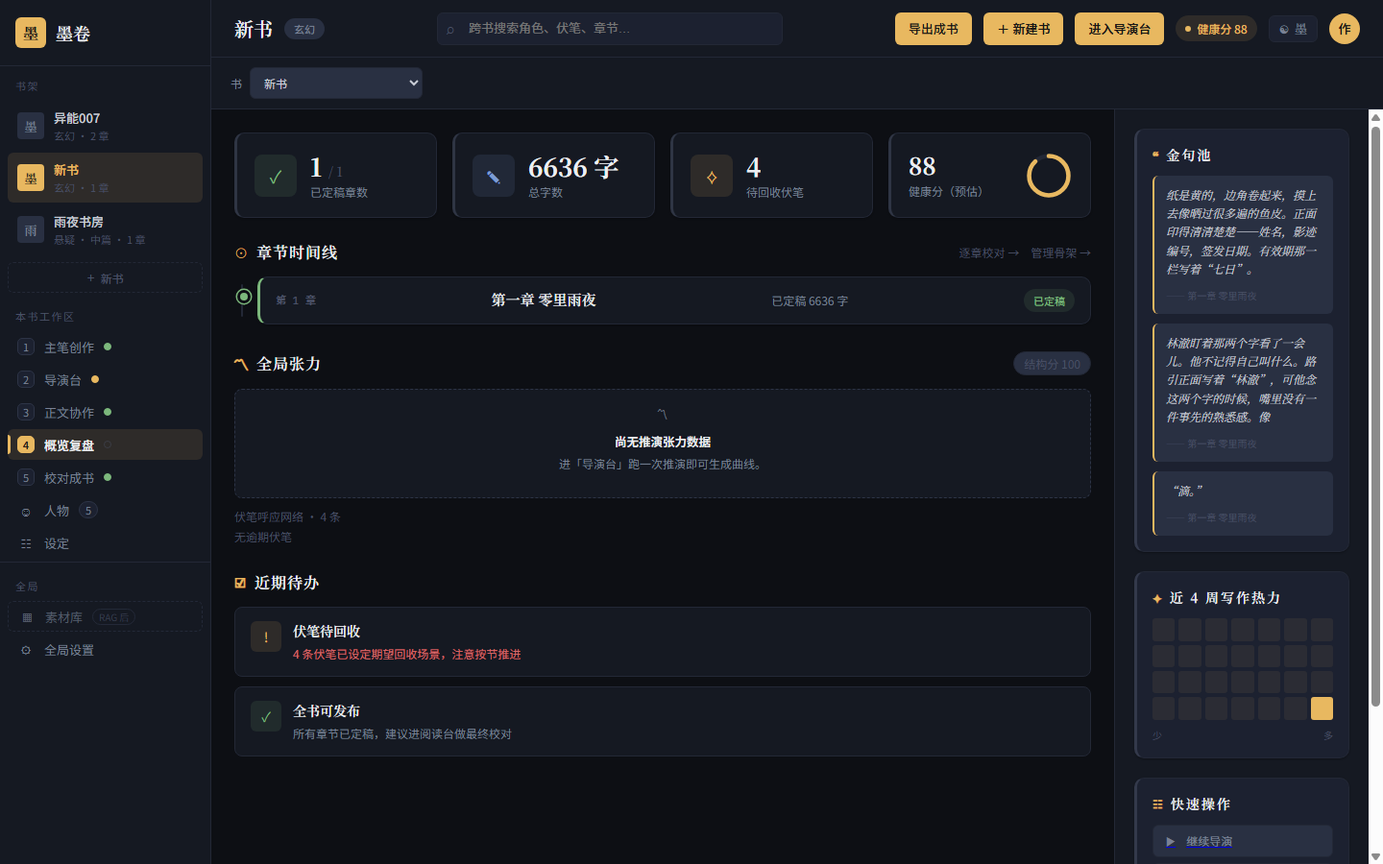
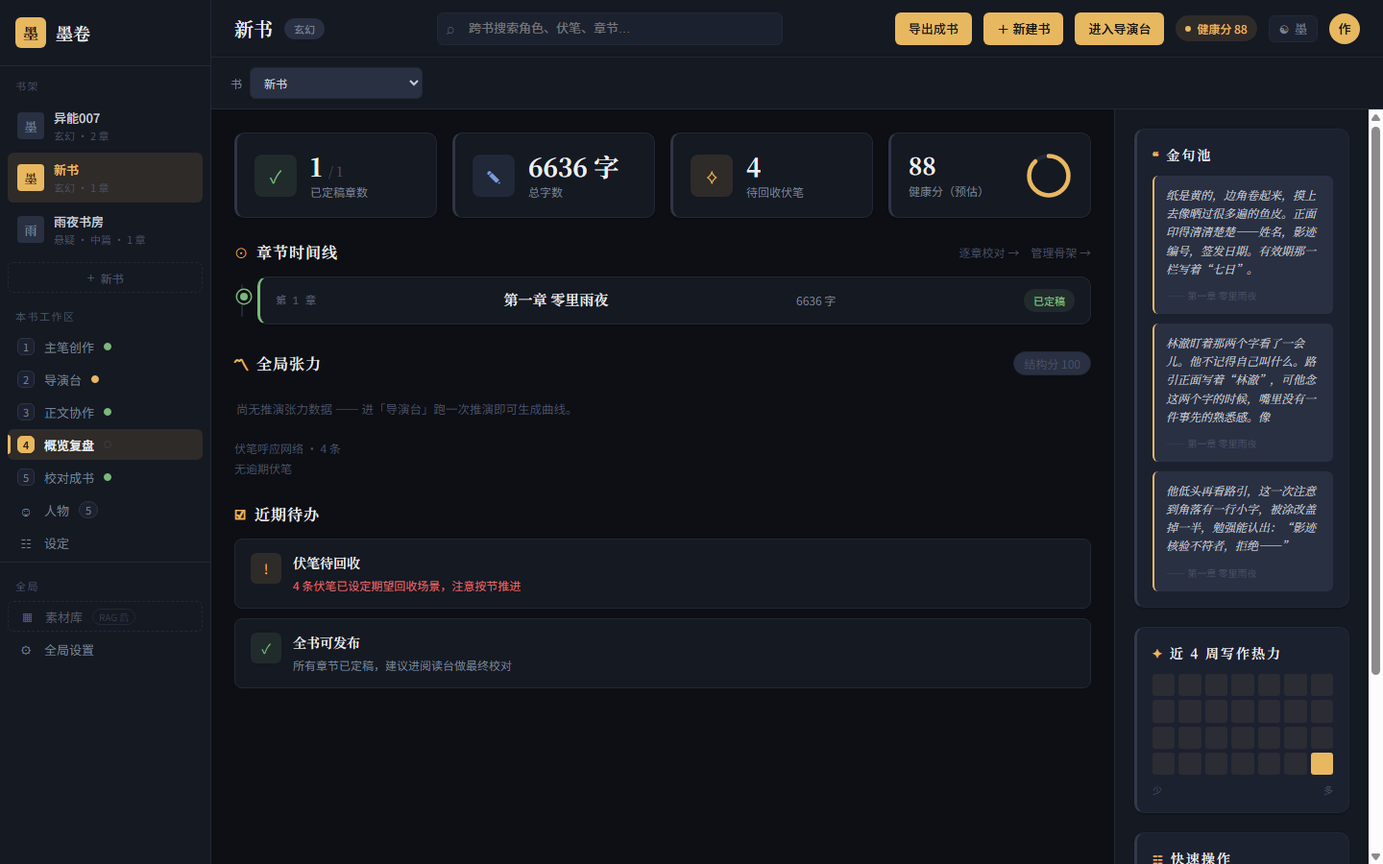
fix(UI): 看图验收修 6 处视觉/语义缺陷（v1.46 补）
终于能读图了，逐张看完概览复盘与章级写作页，发现的问题都是真缺陷：
1) 章级写作页顶栏出现「下一场 ▶」—— 章视图用了场景视图的步骤导航。
   新增 write 步骤：◀ 正文协作 / 概览复盘 ▶。
2) 右栏直接显示内部 ID（book-14b4b312）→ 改显示书名。
3) 进度「6636 字 / 目标 2500 字（100%）」误导（实际超 265%）→ 超目标显示「已超 4136 字」。
4) 概览时间线「已定稿 6636 字」+ badge「已定稿」重复 → 去掉文案重复。
5) 全局张力空态占 ~100px 大虚线块（空的时候白占版面）→ 改一行灰色提示。
6) 金句池抽出「“滴。”」这种垃圾 → 去引号后不足 8 字跳过。
7) 顺带：「场」列表加「未写」标记。

验收：pytest 269 passed + 1 skipped · tsc 0 · build ok · L3 13/13（⑫ 头部已显示「已超 4136 字」）。
截图：docs/mockups/p3/ink/25-dashboard.png、24-write-chapter.png

diff --git a/frontend/src/pages/WritePage.tsx b/frontend/src/pages/WritePage.tsx
@@ -27,7 +27,7 @@ interface SceneRow { id: string; title?: string; goal?: string; final_prose?: st
 export function WritePage() {
   const { chapterId = '' } = useParams<{ chapterId: string }>();
   const nav = useNavigate();
-  const { bookId } = useWorkspace();
+  const { book } = useWorkspace();
   const { showConfirm } = useDialog();
 
   const [text, setText] = useState('');
@@ -65,6 +65,8 @@ export function WritePage() {
   const paras = useMemo(() => text.split(/\n\s*\n/).filter((p) => p.trim()), [text]);
   const dirty = text !== savedText;
   const progress = wordTarget > 0 ? Math.min(100, Math.round((words / wordTarget) * 100)) : 0;
+  /** 超目标时不能显示"100%"了事——要如实说超了多少（实测 6636/2500 显示 100% 很误导）。 */
+  const overTarget = wordTarget > 0 && words > wordTarget;
 
   /** 写这一章：章级流式（分段写满，段间自动承接） */
   const writeChapter = async () => {
@@ -106,14 +108,18 @@ export function WritePage() {
     <div className="app-shell">
       <Sidebar active="studio" />
       <div className="main-col">
-        <ContextBar step="studio" />
+        <ContextBar step="write" />
         <div className="s2-page">
           {toast && <div className="s2-toast">{toast}</div>}
 
           <header className="s2-head">
             <span className="s2-title">{title || '未命名章'}</span>
             <span className="s2-sub">
-              {words} 字{wordTarget > 0 ? ` / 目标 ${wordTarget} 字（${progress}%）` : ''} · {paras.length} 段
+              {words} 字
+              {wordTarget > 0
+                ? (overTarget ? ` / 目标 ${wordTarget} 字（已超 ${words - wordTarget} 字）` : ` / 目标 ${wordTarget} 字（${progress}%）`)
+                : ''}
+              {' '}· {paras.length} 段
               {dirty && <b className="s2-dirty"> · 未保存</b>}
             </span>
             <span className="s2-src">基调：<b>{tone || '未定'}</b></span>
@@ -154,6 +160,7 @@ export function WritePage() {
                     onKeyDown={(e) => { if (e.key === 'Enter') nav(`/studio/${s.id}`); }}
                   >
                     {s.title || '（未命名场）'}
+                    {!(s.final_prose || '').trim() && <em className="wp-scene-todo">未写</em>}
                   </span>
                 </div>
               ))}
@@ -194,13 +201,13 @@ export function WritePage() {
                   <div className="wp-progress-bar" style={{ width: `${progress}%` }} />
                 </div>
                 <div className="s2-kv"><span>已写</span><b>{words} 字</b></div>
-                <div className="s2-kv"><span>目标</span><b>{wordTarget > 0 ? `${wordTarget} 字` : '未设'}</b></div>
+                <div className="s2-kv"><span>目标</span><b>{wordTarget > 0 ? `${wordTarget} 字` : '未设'}{overTarget ? `（已超 ${words - wordTarget}）` : ''}</b></div>
                 <div className="s2-kv"><span>段落</span><b>{paras.length}</b></div>
                 <div className="s2-hint" style={{ marginTop: 12 }}>
                   写作顺序建议：先让开篇立住 → 中间推进二到三次 → 收在一个钩子上。
                   「写这一章」就是按这个节奏分段的。
                 </div>
-                {bookId && <div className="s2-hint" style={{ marginTop: 8 }}>书：{bookId}</div>}
+                {book?.title && <div className="s2-hint" style={{ marginTop: 8 }}>书：{book.title}</div>}
               </div>
             </aside>
           </div>

diff --git a/frontend/src/context/WorkspaceContext.tsx b/frontend/src/context/WorkspaceContext.tsx
@@ -10,7 +10,7 @@ import { API_BASE } from '../types/types';
    优先级：路径参数 > ?query > localStorage > 第一本书
    ========================================================================== */
 
-export type StepKey = 'maestro' | 'director' | 'studio' | 'dashboard' | 'proofread' | 'settings';
+export type StepKey = 'maestro' | 'director' | 'studio' | 'write' | 'dashboard' | 'proofread' | 'settings';
 
 export interface SceneOption {
   id: string;
@@ -409,6 +409,12 @@ export function WorkspaceProvider({ children }: { children: ReactNode }) {
           next: nextScene
             ? { label: '下一场', to: `/studio/${nextScene.id}` }
             : { label: '概览复盘', to: `/dashboard?book=${bookId}` },
+        },
+        // v1.46 章级写作主线：这里 next 不再是「下一场」（那是场景视图的语义），
+        // 章视图写完之后该去的地方是「概览复盘」。
+        write: {
+          prev: { label: '正文协作', to: toStudio },
+          next: { label: '概览复盘', to: `/dashboard?book=${bookId}` },
         },
         dashboard: {
           prev: { label: '正文协作', to: toStudio },

diff --git a/frontend/src/components/dashboard/TensionPanel.tsx b/frontend/src/components/dashboard/TensionPanel.tsx
@@ -44,14 +44,10 @@ export function TensionPanel({ view }: { view: GlobalView | null }) {
       </div>
 
       {summary.valid === 0 ? (
-        <EmptyState
-          compact
-          icon="〽"
-          title="尚无推演张力数据"
-          desc="进「导演台」跑一次推演即可生成曲线。"
-        >
-          {diagnostics.length > 0 && <div className="tension-hint">{diagnostics[0].detail}</div>}
-        </EmptyState>
+        <div className="tension-empty-line">
+          尚无推演张力数据 —— 进「导演台」跑一次推演即可生成曲线。
+          {diagnostics.length > 0 && <span className="tension-hint"> · {diagnostics[0].detail}</span>}
+        </div>
       ) : (
         <>
           <div className="tension-summary">

diff --git a/frontend/src/styles/workspace.css b/frontend/src/styles/workspace.css
@@ -832,6 +832,16 @@
   overflow: hidden;
 }
 .wp-progress-bar { height: 100%; background: var(--accent-cyan); transition: width 0.3s ease; }
+.wp-scene-todo { margin-left: 6px; font-style: normal; font-size: 10.5px; color: var(--text-muted); }
+
+/* 全局张力空态（v1.46）：空的时候不该占掉一整屏高（实测 100px 虚线大空块） */
+/* 全局张力空态（v1.46）：空的时候一行提示即可，别用大空态块占掉一整屏 */
+.tension-empty-line {
+  padding: 10px 2px;
+  font-size: 12.5px;
+  line-height: 1.8;
+  color: var(--text-muted);
+}
 
 /* 正文为空时在责编面板顶部明说（此时工具按钮是禁用的，别让人以为「坏了」） */
 .ec-empty-hint {

diff --git a/frontend/src/pages/DashboardPage.tsx b/frontend/src/pages/DashboardPage.tsx
@@ -189,7 +189,7 @@ export function DashboardPage() {
                             <div className="tl-chapter">第 {c.order_no} 章</div>
                             <div className="tl-title">{c.title}</div>
                             <div className="tl-desc">
-                              {c.word_count > 0 ? `已定稿 ${c.word_count} 字` : (c.tone ? `基调 ${c.tone}` : '尚无场景')}
+                              {c.word_count > 0 ? `${c.word_count} 字` : (c.tone ? `基调 ${c.tone}` : '尚无场景')}
                             </div>
                             <span className={`status-badge ${c.badge}`}>{c.label}</span>
                           </div>

diff --git a/backend/app/services/service.py b/backend/app/services/service.py
@@ -563,9 +563,11 @@ class SimulationService:
         for title, prose in chapter_bodies:
             for line in (prose or "").splitlines():
                 line = line.strip()
-                if line and (("「" in line and "」" in line)
-                             or ("“" in line and "”" in line)
-                             or (line.startswith('"') and line.endswith('"'))):
+                is_quote = bool(line) and (("「" in line and "」" in line)
+                                          or ("“" in line and "”" in line)
+                                          or (line.startswith('"') and line.endswith('"')))
+                # v1.46：过短的对白（如「“滴。”」）不算金句 —— 去掉引号后不足 8 字就跳过
+                if is_quote and len(line.strip('「」“”"')) >= 8:
                     quotes.append({"text": line[:60], "author": title or "—— 正文"})
                     if len(quotes) >= 3:
                         break

diff --git a/docs/代码导航与Bug追踪Wiki.md b/docs/代码导航与Bug追踪Wiki.md
@@ -9,7 +9,7 @@
 
 | 版本         | 日期             | 变更摘要                                                                                                                                                                                                                                                                                                                                                                                                                                                                        | 作者            |
 | ---------- | -------------- | --------------------------------------------------------------------------------------------------------------------------------------------------------------------------------------------------------------------------------------------------------------------------------------------------------------------------------------------------------------------------------------------------------------------------------------------------------------------------- | ------------- |
-| **v1.46**  | 2026-10-21     | ★★**直写链路：章成为最小可写单位，写出第一整章**——产品方向 v2 的第一刀。根因：正文只存在 `scenes.final_prose` → **没有场景就没有写作入口**（Studio 空态死路），且写手 prompt 把字数写死 150-220 字 → 一场=一段，全书至今 286 字。①**存储**：迁移 `0018_chapter_prose` 给 chapters 加 `prose_md`（章正文权威列）；②**写手升级为章级渲染器**：`chapter_segment_goals`（按 word_target 拆 2-8 段，形状=开篇→推进×n→收束，0-token）+ `_CHAPTER_PROMPT`（章级上下文：标题/基调/张力曲线/字数目标/本章摘要/角色卡/账本/约束/记忆/场大纲/上一章结尾/已写尾部 600 字）+ `draft_chapter`；③**接口**：`POST /chapters/{id}/prose/draft/stream`（SSE，段间自动承接+空行）+ `PUT`；**老接口 `GET /chapters/{id}/prose` 合并为「章正文优先、场景聚合回退」**（不新增第二个读真源；新增 prose_md/words/word_target/tone/summary 字段，老字段零破坏）；④**前端主线视图** [WritePage](file:///e:/novel_desk-agent/frontend/src/pages/WritePage.tsx)：`/write/:chapterId` —— 章信息 + 正文（¶n）+ 进度条（已写/目标/段落）+「✍ 写这一章」流式 + 未保存标记 + 保存；⑤**死路改路标**：校对页「这章还没有场景 → 章节要有场景才能落正文」改成「这章还没拆场（也能写）」+「✍ 写这一章」入口（带 `?book=` 防冷加载弹回首页）；⑥删掉自己引入的两处重复实现（重复 `GET chapters/{id}/prose` 路由、重复 ChapterProse/fetchChapterProse）——见 B52。**验证**：pytest **267 passed**（+8）· tsc 0 · L3 **13/13**（新增 ⑫ 章级写作主线）；**真跑**：在「新书·第一章 零里雨夜」（word_target=2500）点「写这一章」→ **182.8s / 6940 字符 / 6636 字 / 153 段**，落库读回一致 —— **项目第一次写出一整章**（此前全书 286 字）；⑦**P0 收尾**：保存章正文 → **自动入队章级记账**（chapter_bookkeeping arq 任务：章正文对照伏笔/信念/世界状态账本 → 写账本，复用 _apply_verify_bookkeeping；手动重跑入口 POST /chapters/{id}/bookkeeping），实测 保存 → queued → worker **12s** 完成 → 账本写入 2 条（林澈=废弃车站 / 金属徽章=携带）；⑧**数据卫生**：删掉残留冒烟测试书；⑨顺手修 **B53**（enqueue 先写状态键后校验 kind → 未知 kind 会留下永远 queued 的僵尸键，本轮漏登记 chapter_bookkeeping 正好踩中）；⑩**接线统一（v1.46 补 · B54）**：`chapters.prose_md` 是新的正文真源 → 所有「读正文/算字数」的地方统一走 `text_metrics.chapter_body/chapter_chars`（章正文优先、场景聚合回退）：**概览** KPI/时间线/金句池/写作热力、**逐章校对**（字数+完成判据）、**全局视图**曲线、**导出**（目录与正文）、**全书体检**（口吻分析样本）；语义修正——直写模式「有章正文=写完」，场景模式仍「所有场定稿」（1/3 场有正文不算写完），导出保留场景间 `* * *` 分隔 | 主笔 Agent |
+| **v1.46**  | 2026-10-21     | ★★**直写链路：章成为最小可写单位，写出第一整章**——产品方向 v2 的第一刀。根因：正文只存在 `scenes.final_prose` → **没有场景就没有写作入口**（Studio 空态死路），且写手 prompt 把字数写死 150-220 字 → 一场=一段，全书至今 286 字。①**存储**：迁移 `0018_chapter_prose` 给 chapters 加 `prose_md`（章正文权威列）；②**写手升级为章级渲染器**：`chapter_segment_goals`（按 word_target 拆 2-8 段，形状=开篇→推进×n→收束，0-token）+ `_CHAPTER_PROMPT`（章级上下文：标题/基调/张力曲线/字数目标/本章摘要/角色卡/账本/约束/记忆/场大纲/上一章结尾/已写尾部 600 字）+ `draft_chapter`；③**接口**：`POST /chapters/{id}/prose/draft/stream`（SSE，段间自动承接+空行）+ `PUT`；**老接口 `GET /chapters/{id}/prose` 合并为「章正文优先、场景聚合回退」**（不新增第二个读真源；新增 prose_md/words/word_target/tone/summary 字段，老字段零破坏）；④**前端主线视图** [WritePage](file:///e:/novel_desk-agent/frontend/src/pages/WritePage.tsx)：`/write/:chapterId` —— 章信息 + 正文（¶n）+ 进度条（已写/目标/段落）+「✍ 写这一章」流式 + 未保存标记 + 保存；⑤**死路改路标**：校对页「这章还没有场景 → 章节要有场景才能落正文」改成「这章还没拆场（也能写）」+「✍ 写这一章」入口（带 `?book=` 防冷加载弹回首页）；⑥删掉自己引入的两处重复实现（重复 `GET chapters/{id}/prose` 路由、重复 ChapterProse/fetchChapterProse）——见 B52。**验证**：pytest **267 passed**（+8）· tsc 0 · L3 **13/13**（新增 ⑫ 章级写作主线）；**真跑**：在「新书·第一章 零里雨夜」（word_target=2500）点「写这一章」→ **182.8s / 6940 字符 / 6636 字 / 153 段**，落库读回一致 —— **项目第一次写出一整章**（此前全书 286 字）；⑦**P0 收尾**：保存章正文 → **自动入队章级记账**（chapter_bookkeeping arq 任务：章正文对照伏笔/信念/世界状态账本 → 写账本，复用 _apply_verify_bookkeeping；手动重跑入口 POST /chapters/{id}/bookkeeping），实测 保存 → queued → worker **12s** 完成 → 账本写入 2 条（林澈=废弃车站 / 金属徽章=携带）；⑧**数据卫生**：删掉残留冒烟测试书；⑨顺手修 **B53**（enqueue 先写状态键后校验 kind → 未知 kind 会留下永远 queued 的僵尸键，本轮漏登记 chapter_bookkeeping 正好踩中）；⑩**接线统一（v1.46 补 · B54）**：`chapters.prose_md` 是新的正文真源 → 所有「读正文/算字数」的地方统一走 `text_metrics.chapter_body/chapter_chars`（章正文优先、场景聚合回退）：**概览** KPI/时间线/金句池/写作热力、**逐章校对**（字数+完成判据）、**全局视图**曲线、**导出**（目录与正文）、**全书体检**（口吻分析样本）；语义修正——直写模式「有章正文=写完」，场景模式仍「所有场定稿」（1/3 场有正文不算写完），导出保留场景间 `* * *` 分隔；⑪**看图验收修 6 处视觉/语义缺陷（v1.46 补）**：①章级写作页顶栏误显示「下一场 ▶」（章视图语义）→ 新增 `write` 步骤：`◀ 正文协作 / 概览复盘 ▶`；②右栏直接显示内部 `book-xxxx` ID → 改显示书名；③进度「6636/2500（100%）」误导 → 超目标时如实显示「已超 N 字」（标题、右栏两处）；④概览时间线「已定稿 6636 字」与 badge「已定稿」重复 → 去掉文案里的重复；⑤全局张力空态占 ~100px 大虚线块 → 改一行灰色提示；⑥金句池抽出「“滴。”」这类垃圾 → 去引号后不足 8 字跳过；⑦顺带给「场」列表加「未写」标记 | 主笔 Agent |
 | **v1.45**  | 2026-10-20     | ★**队列活性可见 + worker 扛抖动（B51 代码层补完）**——B51 暴露出「worker 死了没人知道」：队列静默停摆，前端只能等 5 分钟轮询超时，还留下永远 running 的僵尸任务。①**worker 心跳**：每 30s 刷 `novel_ink:worker:heartbeat`（TTL 90s）；正常退出**删键**（立即被发现），被强杀则最迟 90s 过期；②**`/health.queue`**：`alive / status(ok·no-worker·stuck) / heartbeat_age / queued / in_progress / stuck`，Redis 不可达时降级为 `status=unknown` 而**不把 health 打挂**；③**前端横幅**（[DegradedBanner.tsx](file:///e:/novel_desk-agent/frontend/src/components/common/DegradedBanner.tsx)）新增「后台队列没有消费者（worker 未运行）—— 排批/审稿会/质量回环会一直排队」与「N 个任务卡在 running」两行（沿用 T9 静默降级必须反馈）；④**启动自动清扫**：`WorkerSettings.on_startup` 把上个进程留下的 running 僵尸（超过 `STUCK_SEC=600s`，避免误杀并行 worker 的活任务）标 failed 并写明原因——此前只能人工清；⑤**防抖**：新增 [worker-supervise.sh](file:///e:/novel_desk-agent/scripts/worker-supervise.sh)（退出即重启 + 带时间日志），`dev-up.sh` 改走它、不再裸 nohup。**验证**：pytest **259 passed + 1 skipped**（+5 队列健康用例）· tsc 0 · build ok · L3 **12/12**（新增 ⑪ 队列活性断言）；**真删真验**：注入假僵尸 → 杀 worker → 95s 后 `/health.queue={alive:false,status:"no-worker",stuck:1}`（横幅会亮）→ 重启 → 日志 `[worker] 启动清扫：1 个遗留 running 任务已标记 failed`、该任务转 failed、`stuck:0`、心跳恢复。**附（环境）**：期间用户提供的新 key 被上游封禁（23 个模型全部 `400 request illegal`），已回滚旧 key（实测 200 OK）；`.env` 在 .gitignore 内、不进版本库 | 主笔 Agent |
 | **v1.44**  | 2026-10-13     | ★★**写手素材治理 + 正文流式**——起因是问「写手拿到的素材是？」，把**真实装配路径** dump 出来（新增常驻诊断工具 [dump-writer-materials.py](file:///e:/novel_desk-agent/scripts/dump-writer-materials.py)：模型输出不对劲时先看它到底拿到了什么，比猜 prompt 快）后发现写手在**半裸写**：①**B48 item/term 永远注入不进来**——过滤条件是 `kind in {character,item,term} and name in cast_names`，拿**物品名/术语名**去比**角色名**集合，这两类注定全丢（实测正文两次提到「异常者」、一次提到「金属徽章」，全被裁）；②**B49 账本重复注入**——`chief_perceive` 塞了一整份**未过滤**账本（349 字里约 320 字是副本），且与筛选后的块口径不一致；新增 `include_world_states` 开关，写手侧关闭（主笔/对话侧保持 True，B27b「作者手改全量可见」不受影响）；③**B50 代词脏行直接进 prompt**——numeric 无条件放行，记账没解析到对象的行（`name=「他」`）会喂给模型；④**场景设定全空时静默**——原来渲染成「舞台：」空标签，模型不知道「没设定」就自由发挥（体检抓到的「本场设定栏全空；主角指代与猎/被猎立场倒置，结尾跳步」正是此因）；现缺失项显式标注「（未填 · 不要自行编造…）」+ prompt 增「设定缺口纪律」；⑤筛选逻辑抽成**纯函数** [scene_context.py](file:///e:/novel_desk-agent/backend/app/services/engine/scene_context.py)（可单测；被裁项**带原因**返回，不静默）；⑥**写手 token 流式**——新增 `draft_prose_stream` + `POST /scenes/{id}/prose/draft/stream`（SSE），中间正文区**边收边写**（实测首 token 10.8s、11.5s 出 228 字 / 161 个 token）；收尾必落 writer 审计，**流式中断也保存已生成部分并标注**；⑦**脏缓冲保护**——编辑区有未保存改动时，写手/采纳候选先弹确认；头部加「未保存」标记，保存按钮随状态变「💾 保存* / 💾 已保存」；⑧**测试诚实性**——L3 ⑨/⑩ 在 LLM 不健康时**明确 SKIP**（上游 503 熔断时，回退路径的「0 条问题」曾让断言**假通过**），且 ⑨ 断言排除回退报告。验收：pytest **255 passed**（+14）· tsc 0 · build ok · L3 **11/11**（新增 ⑩ 写手流式：采样到 **4 个中间态** + 出现过「写手中」按钮态 + 未保存标记）；dump 前后对比：item/term 注入 **5→7 条**、记忆块 **349→38 字**、prompt **2456→2325 字符**且信息更准 | 主笔 Agent |
 | **v1.43**  | 2026-10-13     | ★★**复杂按钮收进责编流（按钮也看得见过程与明细）+ 模型暂不分档**——用户实测两条反馈：①「不要用 deepseek4pro，全用 deepseek-v4.1-flash，暂时不要分强弱」；②「责编复杂的这几个按钮都没有输出，也不知道怎么质检体检的，是不是应该放到责编的流下面」。根因：审稿会/精修工具走**同步 POST**，结果只落右侧「质检」tab——作者停在「责编」tab 时**什么都看不到**，且结果卡只有摘要、没有明细。①**模型统一**：`NOVEL_MODEL_STRONG/CHEAP` 都指向 `deepseek-v4.1-flash`（config 默认值同步改；**保留两个旋钮**=保留随时再分档的能力，代码侧零改动），`/health.llm` 新增 `unified` 标记；实测同一场景同一 prompt：体检 **52.9s → 29-30s**；②**按钮也走流式**：新增 `tool_run_stream`（[editor.py](file:///e:/novel_desk-agent/backend/app/services/agents/editor.py)）+ `POST /scenes/{id}/agent/run/stream`（SSE）——与对话**同一套事件词汇**（tool_start → **tick 每 2s 耗时心跳** → tool_done（含 summary + 完整 result）→ done），被拒不静默（`denied=true` → 前端弹确认后带 confirm 重试）；连接断开**不取消**工具（LLM 花的钱必须变成审计记录）；③**摘要统一口径**：`_summarize(tool, data)` 按工具类型给「查了什么、结论是什么」（体检：N 条问题（高危 h）· 口吻 v 处 / 质检：伏笔 a · 信念 b · 因果 c · 状态 d · 风险 e / 评审：N 分 · 弱项 k 条 / 回环 x→y 分 / 定点修复命中 x→y…），按钮与对话共用，替换原先只会报「产出候选 N 字」的粗摘要；④**明细富卡**：新增 [ToolResult.tsx](file:///e:/novel_desk-agent/frontend/src/components/studio/ToolResult.tsx)——体检问题清单（severity + 建议）+ 口吻逐字证据 + 0-token 先验 / 质检账本对照（风险·口吻·伏笔·信念·因果·状态）+ 评审五维与弱项原句 / 审稿会四步 chips + 裁决 + 三折明细 / AI 味规则命中 / 定点修复 before→after / 回环分数变化 / 候选文本+采纳；⑤**信息架构（按作者第二轮反馈「按钮别搬进右栏」修正）**：**按钮留在顶栏原位**（🗂 审稿会 + 精修工具 ▾ 7 个）——点了**自动切到右栏「责编」tab**，过程卡与明细富卡长在那个流里；「质检」tab 取消（内容已内联进责编流）；侧栏 tab 变 责编/任务/角色（**角标为 0 时不显示**，此前会渲染成「责编 0 任务 0」）；**审计记录可收起**（v1.43 追加：`▾ 审计记录 N 条` 一行点击折叠，偏好记 localStorage，收起后正文区自动拿回高度）；⑥**顺手修 B45**（`/chief/tools` 路由**重复注册两遍**，第二份是死代码）+ **B46**（`ui-spec.mjs` 的 `skip` 从未定义，走到"夹具不足"分支必抛 ReferenceError 被 catch 吞成"剧本异常"）+ **B47**（`shot.mjs`/`ui-spec.mjs`/`ui-audit.mjs` 用 `spawn(..., {detached:true})` 启无头浏览器——Node 文档明说 Windows 上 detached 子进程"会有自己的控制台窗口"，而 chrome-headless-shell 是控制台程序 → **每跑一次截图/剧本就弹一个 Windows Terminal 窗口**，且 `proc.kill()` 只杀父进程 → chrome 的 GPU/渲染子进程残留（实测攒了 **15 个** + 一摞窗口）；改 `windowsHide:true` + 退出时按进程树 `taskkill /T /F`）；⑦**L3 断言 7→10**：⑧按钮留在顶栏（审稿会 + 精修工具 7 个 / 右栏 ec-tool=0 / 无「质检」tab）· ⑧b 审计记录可收起（列表 1→0 再展开）· ⑨顶栏点「体检」→ 自动切责编 tab + 过程卡 + 结果富卡（明细可见）——正对用户痛点；并新增「正文最长场景」夹具选择（正文为空时按钮禁用，避免误判成「按钮没输出」）。验收：pytest **241 passed** · tsc 0 · build ok · L3 **10/10** · 真跑：体检过程卡「体检员：问题清单 + 口吻发现 · 体检：4 条问题（高危 4）· 口吻 2 处（29s）」+ 富卡 7 条明细；审稿会（队列路径）过程卡 6 段「审稿会开始 → 体检完成（问题 7 条·口吻 1 处）→ 润色完成 → 质检完成 → 评审完成（85 分）→ 审稿会 · 有 2 条高危问题 → 建议润色后再保存」+ 29 条明细 | 主笔 Agent |
